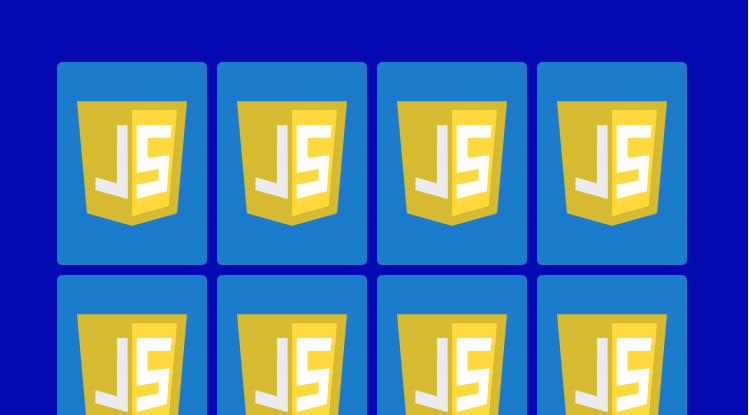
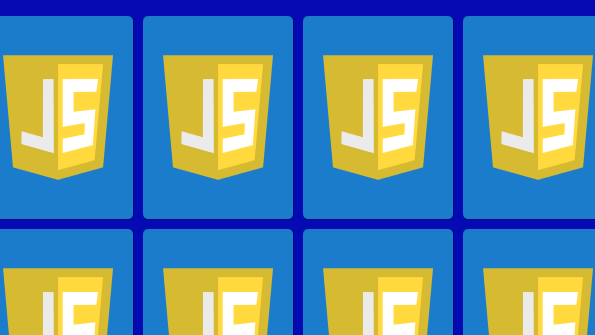
so....many..changes

diff --git a/index.html b/index.html
@@ -8,7 +8,6 @@
     <meta name="description" content="Portfolio of Jeremy Ricker - designer and developer specializing in designing and developing for the web">
     <meta name="keywords" content="webdesign, web development">
     <meta name="author" content="Jeremy Ricker">
-    <link href="https://unpkg.com/aos@2.3.1/dist/aos.css" rel="stylesheet">
     <link rel="stylesheet" href="https://use.fontawesome.com/releases/v5.8.1/css/all.css" integrity="sha384-50oBUHEmvpQ+1lW4y57PTFmhCaXp0ML5d60M1M7uH2+nqUivzIebhndOJK28anvf" crossorigin="anonymous">
     <link rel="stylesheet" href="https://unpkg.com/tachyons@4.10.0/css/tachyons.min.css"/>
     <link rel="stylesheet" type="text/css" media="screen" href="css/main.css">
@@ -52,130 +51,74 @@
             Work
         </h2>
     </div>
-        <div class="mw8 center ph3-ns">
-            <div class="cf ph2-ns mt5">
-                <div class="fl w-100 w-100-m w-50-ns pa2" data-aos="fade-right" data-aos-offset="300" data-aos-easing="ease-in-sine">
-                    <a href="http://" target="_blank">
-                        <img src="img/todo.png" class="db w-100 br2 br--top overflow-hidden" alt="Photo of main page of face recognition application.">
+    <div class="mw9 center ph1 ph2-ns">
+        <div class="cf w-100 pt4">
+                <div class="fl w-50 w-third-m w-25-ns">
+                <div class="aspect-ratio aspect-ratio--1x1 overflow-hidden">
+                    <a href="https://j-ricker.github.io/vanilla-todo-list/" target="_blank">    
+                        <img style="background-image:url(img/todo.png);"
+                        class="db bg-center cover aspect-ratio--object grow" />
                     </a>
-                        <div class="pa2 ph3-ns pb3-ns">
-                        <div class="dt w-100 mt1">
-                        <div class="dtc">
-                            <h3 class="f5 f4-ns mv0">Face recognition App</h3>
-                        </div>
-                        <div class="dtc tr">
-                            <a class="link near-black dib h2 w2 mr3 ml3" href="https://github.com/J-Ricker" title="GitHub" target="_blank">
-                                <svg fill="currentColor" xmlns="http://www.w3.org/2000/svg" viewBox="0 0 16 16" fill-rule="evenodd" clip-rule="evenodd" stroke-linejoin="round" stroke-miterlimit="1.414"><path d="M8 0C3.58 0 0 3.582 0 8c0 3.535 2.292 6.533 5.47 7.59.4.075.547-.172.547-.385 0-.19-.007-.693-.01-1.36-2.226.483-2.695-1.073-2.695-1.073-.364-.924-.89-1.17-.89-1.17-.725-.496.056-.486.056-.486.803.056 1.225.824 1.225.824.714 1.223 1.873.87 2.33.665.072-.517.278-.87.507-1.07-1.777-.2-3.644-.888-3.644-3.953 0-.873.31-1.587.823-2.147-.083-.202-.358-1.015.077-2.117 0 0 .672-.215 2.2.82.638-.178 1.323-.266 2.003-.27.68.004 1.364.092 2.003.27 1.527-1.035 2.198-.82 2.198-.82.437 1.102.163 1.915.08 2.117.513.56.823 1.274.823 2.147 0 3.073-1.87 3.75-3.653 3.947.287.246.543.735.543 1.48 0 1.07-.01 1.933-.01 2.195 0 .215.144.463.55.385C13.71 14.53 16 11.534 16 8c0-4.418-3.582-8-8-8"/></svg>
-                            </a>
-                        </div>
-                        </div>
-                        <p class="f6 lh-copy measure mt2 mid-gray">
-                            An application built with React.js, Node.js, Express.js, and Postgres for the database.
-                        </p>
-                    </div>
                 </div>
-                <div class="fl w-100 w-100-m w-50-ns pa2" data-aos="fade-left" data-aos-offset="300" data-aos-easing="ease-in-sine">
-                        <a href="https://j-ricker.github.io/Budget-app/" target="_blank">
-                            <img src="img/todo.png" class="db w-100 br2 br--top" alt="Photo of budget application.">
-                        </a> 
-                        <div class="pa2 ph3-ns pb3-ns">
-                            <div class="dt w-100 mt1">
-                            <div class="dtc">
-                                <h3 class="f5 f4-ns mv0">Budget App</h3>
-                            </div>
-                            <div class="dtc tr">
-                                <a class="link near-black dib h2 w2 mr3 ml3" href="https://github.com/J-Ricker" title="GitHub" target="_blank">
-                                    <svg fill="currentColor" xmlns="http://www.w3.org/2000/svg" viewBox="0 0 16 16" fill-rule="evenodd" clip-rule="evenodd" stroke-linejoin="round" stroke-miterlimit="1.414"><path d="M8 0C3.58 0 0 3.582 0 8c0 3.535 2.292 6.533 5.47 7.59.4.075.547-.172.547-.385 0-.19-.007-.693-.01-1.36-2.226.483-2.695-1.073-2.695-1.073-.364-.924-.89-1.17-.89-1.17-.725-.496.056-.486.056-.486.803.056 1.225.824 1.225.824.714 1.223 1.873.87 2.33.665.072-.517.278-.87.507-1.07-1.777-.2-3.644-.888-3.644-3.953 0-.873.31-1.587.823-2.147-.083-.202-.358-1.015.077-2.117 0 0 .672-.215 2.2.82.638-.178 1.323-.266 2.003-.27.68.004 1.364.092 2.003.27 1.527-1.035 2.198-.82 2.198-.82.437 1.102.163 1.915.08 2.117.513.56.823 1.274.823 2.147 0 3.073-1.87 3.75-3.653 3.947.287.246.543.735.543 1.48 0 1.07-.01 1.933-.01 2.195 0 .215.144.463.55.385C13.71 14.53 16 11.534 16 8c0-4.418-3.582-8-8-8"/></svg>
-                                </a>
-                            </div>
-                            </div>
-                            <p class="f6 lh-copy measure mt2 mid-gray">
-                                A Budget application built with HTML, CSS, Bootstrap, and Javascript.
-                            </p>
-                        </div>
                 </div>
-                <div class="fl w-100 w-100-m w-50-ns pa2" data-aos="fade-right" data-aos-offset="300" data-aos-easing="ease-in-sine">
-                        <a href="https://j-ricker.github.io/memory-game/" target="_blank">
-                            <img src="img/mem-game.png" class="db w-100 br2 br--top" alt="Photo of memory game.">
-                        </a>
-                            <div class="pa2 ph3-ns pb3-ns">
-                            <div class="dt w-100 mt1">
-                            <div class="dtc">
-                                <h3 class="f5 f4-ns mv0">Memory Game</h3>
-                            </div>
-                            <div class="dtc tr">
-                                <a class="link near-black dib h2 w2 mr3 ml3" href="https://github.com/J-Ricker/memory-game" title="GitHub" target="_blank">
-                                    <svg fill="currentColor" xmlns="http://www.w3.org/2000/svg" viewBox="0 0 16 16" fill-rule="evenodd" clip-rule="evenodd" stroke-linejoin="round" stroke-miterlimit="1.414"><path d="M8 0C3.58 0 0 3.582 0 8c0 3.535 2.292 6.533 5.47 7.59.4.075.547-.172.547-.385 0-.19-.007-.693-.01-1.36-2.226.483-2.695-1.073-2.695-1.073-.364-.924-.89-1.17-.89-1.17-.725-.496.056-.486.056-.486.803.056 1.225.824 1.225.824.714 1.223 1.873.87 2.33.665.072-.517.278-.87.507-1.07-1.777-.2-3.644-.888-3.644-3.953 0-.873.31-1.587.823-2.147-.083-.202-.358-1.015.077-2.117 0 0 .672-.215 2.2.82.638-.178 1.323-.266 2.003-.27.68.004 1.364.092 2.003.27 1.527-1.035 2.198-.82 2.198-.82.437 1.102.163 1.915.08 2.117.513.56.823 1.274.823 2.147 0 3.073-1.87 3.75-3.653 3.947.287.246.543.735.543 1.48 0 1.07-.01 1.933-.01 2.195 0 .215.144.463.55.385C13.71 14.53 16 11.534 16 8c0-4.418-3.582-8-8-8"/></svg>
-                                </a>
-                            </div>
-                            </div>
-                            <p class="f6 lh-copy measure mt2 mid-gray">
-                                A memory game built with HTML, CSS, and Javascript.
-                            </p>
-                        </div>
+                <div class="fl w-50 w-third-m w-25-ns">
+                <div class="aspect-ratio aspect-ratio--1x1 overflow-hidden">
+                    <a href="https://j-ricker.github.io/robo-friends/" target="_blank">
+                        <img style="background-image:url(img/robo-friends.png);"
+                        class="db bg-center cover aspect-ratio--object grow" />
+                    </a>
                 </div>
-                <div class="fl w-100 w-100-m w-50-ns pa2" data-aos="fade-left" data-aos-offset="300" data-aos-easing="ease-in-sine">
-                        <a href="https://j-ricker.github.io/vanilla-todo-list/" target="_blank">
-                            <img src="img/todo.png" class="db w-100 br2 br--top" alt="photo of todo list application.">
-                        </a>
-                        <div class="pa2 ph3-ns pb3-ns">
-                            <div class="dt w-100 mt1">
-                            <div class="dtc">
-                                <h3 class="f5 f4-ns mv0">Todo App</h3>
-                            </div>
-                            <div class="dtc tr">
-                                <a class="link near-black dib h2 w2 mr3 ml3" href="https://github.com/J-Ricker/vanilla-todo-list" title="GitHub" target="_blank">
-                                    <svg fill="currentColor" xmlns="http://www.w3.org/2000/svg" viewBox="0 0 16 16" fill-rule="evenodd" clip-rule="evenodd" stroke-linejoin="round" stroke-miterlimit="1.414"><path d="M8 0C3.58 0 0 3.582 0 8c0 3.535 2.292 6.533 5.47 7.59.4.075.547-.172.547-.385 0-.19-.007-.693-.01-1.36-2.226.483-2.695-1.073-2.695-1.073-.364-.924-.89-1.17-.89-1.17-.725-.496.056-.486.056-.486.803.056 1.225.824 1.225.824.714 1.223 1.873.87 2.33.665.072-.517.278-.87.507-1.07-1.777-.2-3.644-.888-3.644-3.953 0-.873.31-1.587.823-2.147-.083-.202-.358-1.015.077-2.117 0 0 .672-.215 2.2.82.638-.178 1.323-.266 2.003-.27.68.004 1.364.092 2.003.27 1.527-1.035 2.198-.82 2.198-.82.437 1.102.163 1.915.08 2.117.513.56.823 1.274.823 2.147 0 3.073-1.87 3.75-3.653 3.947.287.246.543.735.543 1.48 0 1.07-.01 1.933-.01 2.195 0 .215.144.463.55.385C13.71 14.53 16 11.534 16 8c0-4.418-3.582-8-8-8"/></svg>
-                                </a>
-                            </div>
-                            </div>
-                            <p class="f6 lh-copy measure mt2 mid-gray">
-                                A Todo application built with HTML, CSS, Bootstrap, and Javascript. Also utilizes Local Storage to save items in the list.
-                            </p>
-                        </div>
                 </div>
-                <div class="fl w-100 w-100-m w-50-ns pa2" data-aos="fade-right" data-aos-offset="300" data-aos-easing="ease-in-sine">
-                        <a href="https://j-ricker.github.io/pig-game/" target="_blank">
-                            <img src="img/pig-game.png" class="db w-100 br2 br--top" alt="Photo of a kitten looking menacing.">
-                        </a>
-                        <div class="pa2 ph3-ns pb3-ns">
-                            <div class="dt w-100 mt1">
-                            <div class="dtc">
-                                <h3 class="f5 f4-ns mv0">Pig Game</h3>
-                            </div>
-                            <div class="dtc tr">
-                                <a class="link near-black dib h2 w2 mr3 ml3" href="https://github.com/J-Ricker/pig-game" title="GitHub" target="_blank">
-                                    <svg fill="currentColor" xmlns="http://www.w3.org/2000/svg" viewBox="0 0 16 16" fill-rule="evenodd" clip-rule="evenodd" stroke-linejoin="round" stroke-miterlimit="1.414"><path d="M8 0C3.58 0 0 3.582 0 8c0 3.535 2.292 6.533 5.47 7.59.4.075.547-.172.547-.385 0-.19-.007-.693-.01-1.36-2.226.483-2.695-1.073-2.695-1.073-.364-.924-.89-1.17-.89-1.17-.725-.496.056-.486.056-.486.803.056 1.225.824 1.225.824.714 1.223 1.873.87 2.33.665.072-.517.278-.87.507-1.07-1.777-.2-3.644-.888-3.644-3.953 0-.873.31-1.587.823-2.147-.083-.202-.358-1.015.077-2.117 0 0 .672-.215 2.2.82.638-.178 1.323-.266 2.003-.27.68.004 1.364.092 2.003.27 1.527-1.035 2.198-.82 2.198-.82.437 1.102.163 1.915.08 2.117.513.56.823 1.274.823 2.147 0 3.073-1.87 3.75-3.653 3.947.287.246.543.735.543 1.48 0 1.07-.01 1.933-.01 2.195 0 .215.144.463.55.385C13.71 14.53 16 11.534 16 8c0-4.418-3.582-8-8-8"/></svg>
-                                </a>
-                            </div>
-                            </div>
-                            <p class="f6 lh-copy measure mt2 mid-gray">
-                                A Pig Game built with HTML, CSS, and Javascript.
-                            </p>
-                        </div>
+                <div class="fl w-50 w-third-m w-25-ns">
+                <div class="aspect-ratio aspect-ratio--1x1 overflow-hidden">
+                    <a href="https://j-ricker.github.io/Budget-app/" target="_blank">
+                        <img style="background-image:url(img/budget-app.png);"
+                        class="db bg-center cover aspect-ratio--object grow" />
+                    </a>
                 </div>
-                <div class="fl w-100 w-100-m w-50-ns pa2" data-aos="fade-left" data-aos-offset="300" data-aos-easing="ease-in-sine">
-                        <a href="https://j-ricker.github.io/robo-friends/" target="_blank">
-                            <img src="img/hex-2-rgb.png" class="db w-100 br2 br--top" alt="Photo of a kitten looking menacing.">
-                        </a>
-                        <div class="pa2 ph3-ns pb3-ns">
-                            <div class="dt w-100 mt1">
-                            <div class="dtc">
-                                <h3 class="f5 f4-ns mv0">Robo-Friends</h3>
-                            </div>
-                            <div class="dtc tr">
-                                    <a class="link near-black dib h2 w2 mr3 ml3" href="https://github.com/J-Ricker/hex2rgb-color-converter" title="GitHub" target="_blank">
-                                        <svg fill="currentColor" xmlns="http://www.w3.org/2000/svg" viewBox="0 0 16 16" fill-rule="evenodd" clip-rule="evenodd" stroke-linejoin="round" stroke-miterlimit="1.414"><path d="M8 0C3.58 0 0 3.582 0 8c0 3.535 2.292 6.533 5.47 7.59.4.075.547-.172.547-.385 0-.19-.007-.693-.01-1.36-2.226.483-2.695-1.073-2.695-1.073-.364-.924-.89-1.17-.89-1.17-.725-.496.056-.486.056-.486.803.056 1.225.824 1.225.824.714 1.223 1.873.87 2.33.665.072-.517.278-.87.507-1.07-1.777-.2-3.644-.888-3.644-3.953 0-.873.31-1.587.823-2.147-.083-.202-.358-1.015.077-2.117 0 0 .672-.215 2.2.82.638-.178 1.323-.266 2.003-.27.68.004 1.364.092 2.003.27 1.527-1.035 2.198-.82 2.198-.82.437 1.102.163 1.915.08 2.117.513.56.823 1.274.823 2.147 0 3.073-1.87 3.75-3.653 3.947.287.246.543.735.543 1.48 0 1.07-.01 1.933-.01 2.195 0 .215.144.463.55.385C13.71 14.53 16 11.534 16 8c0-4.418-3.582-8-8-8"/></svg>
-                                    </a>
-                            </div>
-                            </div>
-                            <p class="f6 lh-copy measure mt2 mid-gray">
-                                A simple React application, utilizes an API and filtering.
-                            </p>
-                        </div>
                 </div>
-            </div>
+                <div class="fl w-50 w-third-m w-25-ns">
+                <div class="aspect-ratio aspect-ratio--1x1 overflow-hidden">
+                    <a href="https://j-ricker.github.io/omnifood/" target="_blank">
+                        <img style="background-image:url(img/omni-food.png);"
+                        class="db bg-center cover aspect-ratio--object grow" />
+                    </a>
+                </div>
+                </div>
+                <div class="fl w-50 w-third-m w-25-ns">
+                <div class="aspect-ratio aspect-ratio--1x1 overflow-hidden">
+                    <a href="https://j-ricker.github.io/vanilla-todo-list/" target="_blank">
+                        <img style="background-image:url(img/todo.png);"
+                        class="db bg-center cover aspect-ratio--object grow" />
+                    </a>
+                </div>
+                </div>
+                <div class="fl w-50 w-third-m w-25-ns">
+                <div class="aspect-ratio aspect-ratio--1x1 overflow-hidden">
+                    <a href="https://j-ricker.github.io/pig-game/" target="_blank">
+                        <img style="background-image:url(img/pig-game.png);"
+                        class="db bg-center cover aspect-ratio--object grow" />
+                    </a>
+                </div>
+                </div>
+                <div class="fl w-50 w-third-m w-25-ns">
+                    <div class="aspect-ratio aspect-ratio--1x1 overflow-hidden">
+                    <a href="https://j-ricker.github.io/memory-game/" target="_blank">
+                        <img style="background-image:url(img/mem-game.png);"
+                        class="db bg-center cover aspect-ratio--object grow" />
+                    </a>
+                </div>
+                </div>
+                <div class="fl w-50 w-third-m w-25-ns">
+                    <div class="aspect-ratio aspect-ratio--1x1 overflow-hidden">
+                    <a href="https://j-ricker.github.io/hex2rgb-color-converter/" target="_blank">
+                        <img style="background-image:url(img/hex-2-rgb.png);"
+                        class="db bg-center cover aspect-ratio--object grow" />
+                    </a>
+                </div>
+                </div>
         </div>
+    </div>
 </section>
     <!--Content about/skills -->
 <section class="courier pb5" id="about-content">
@@ -239,7 +182,6 @@
             <small class="f6 db white-70">© 2019 <b class="ttu">Jeremy Ricker</b>., All Rights Reserved</small>
         </div>
 </footer>
-    <script src="https://unpkg.com/aos@2.3.1/dist/aos.js"></script>
     <script src="js/main.js"></script>
 </body>
 </html>
